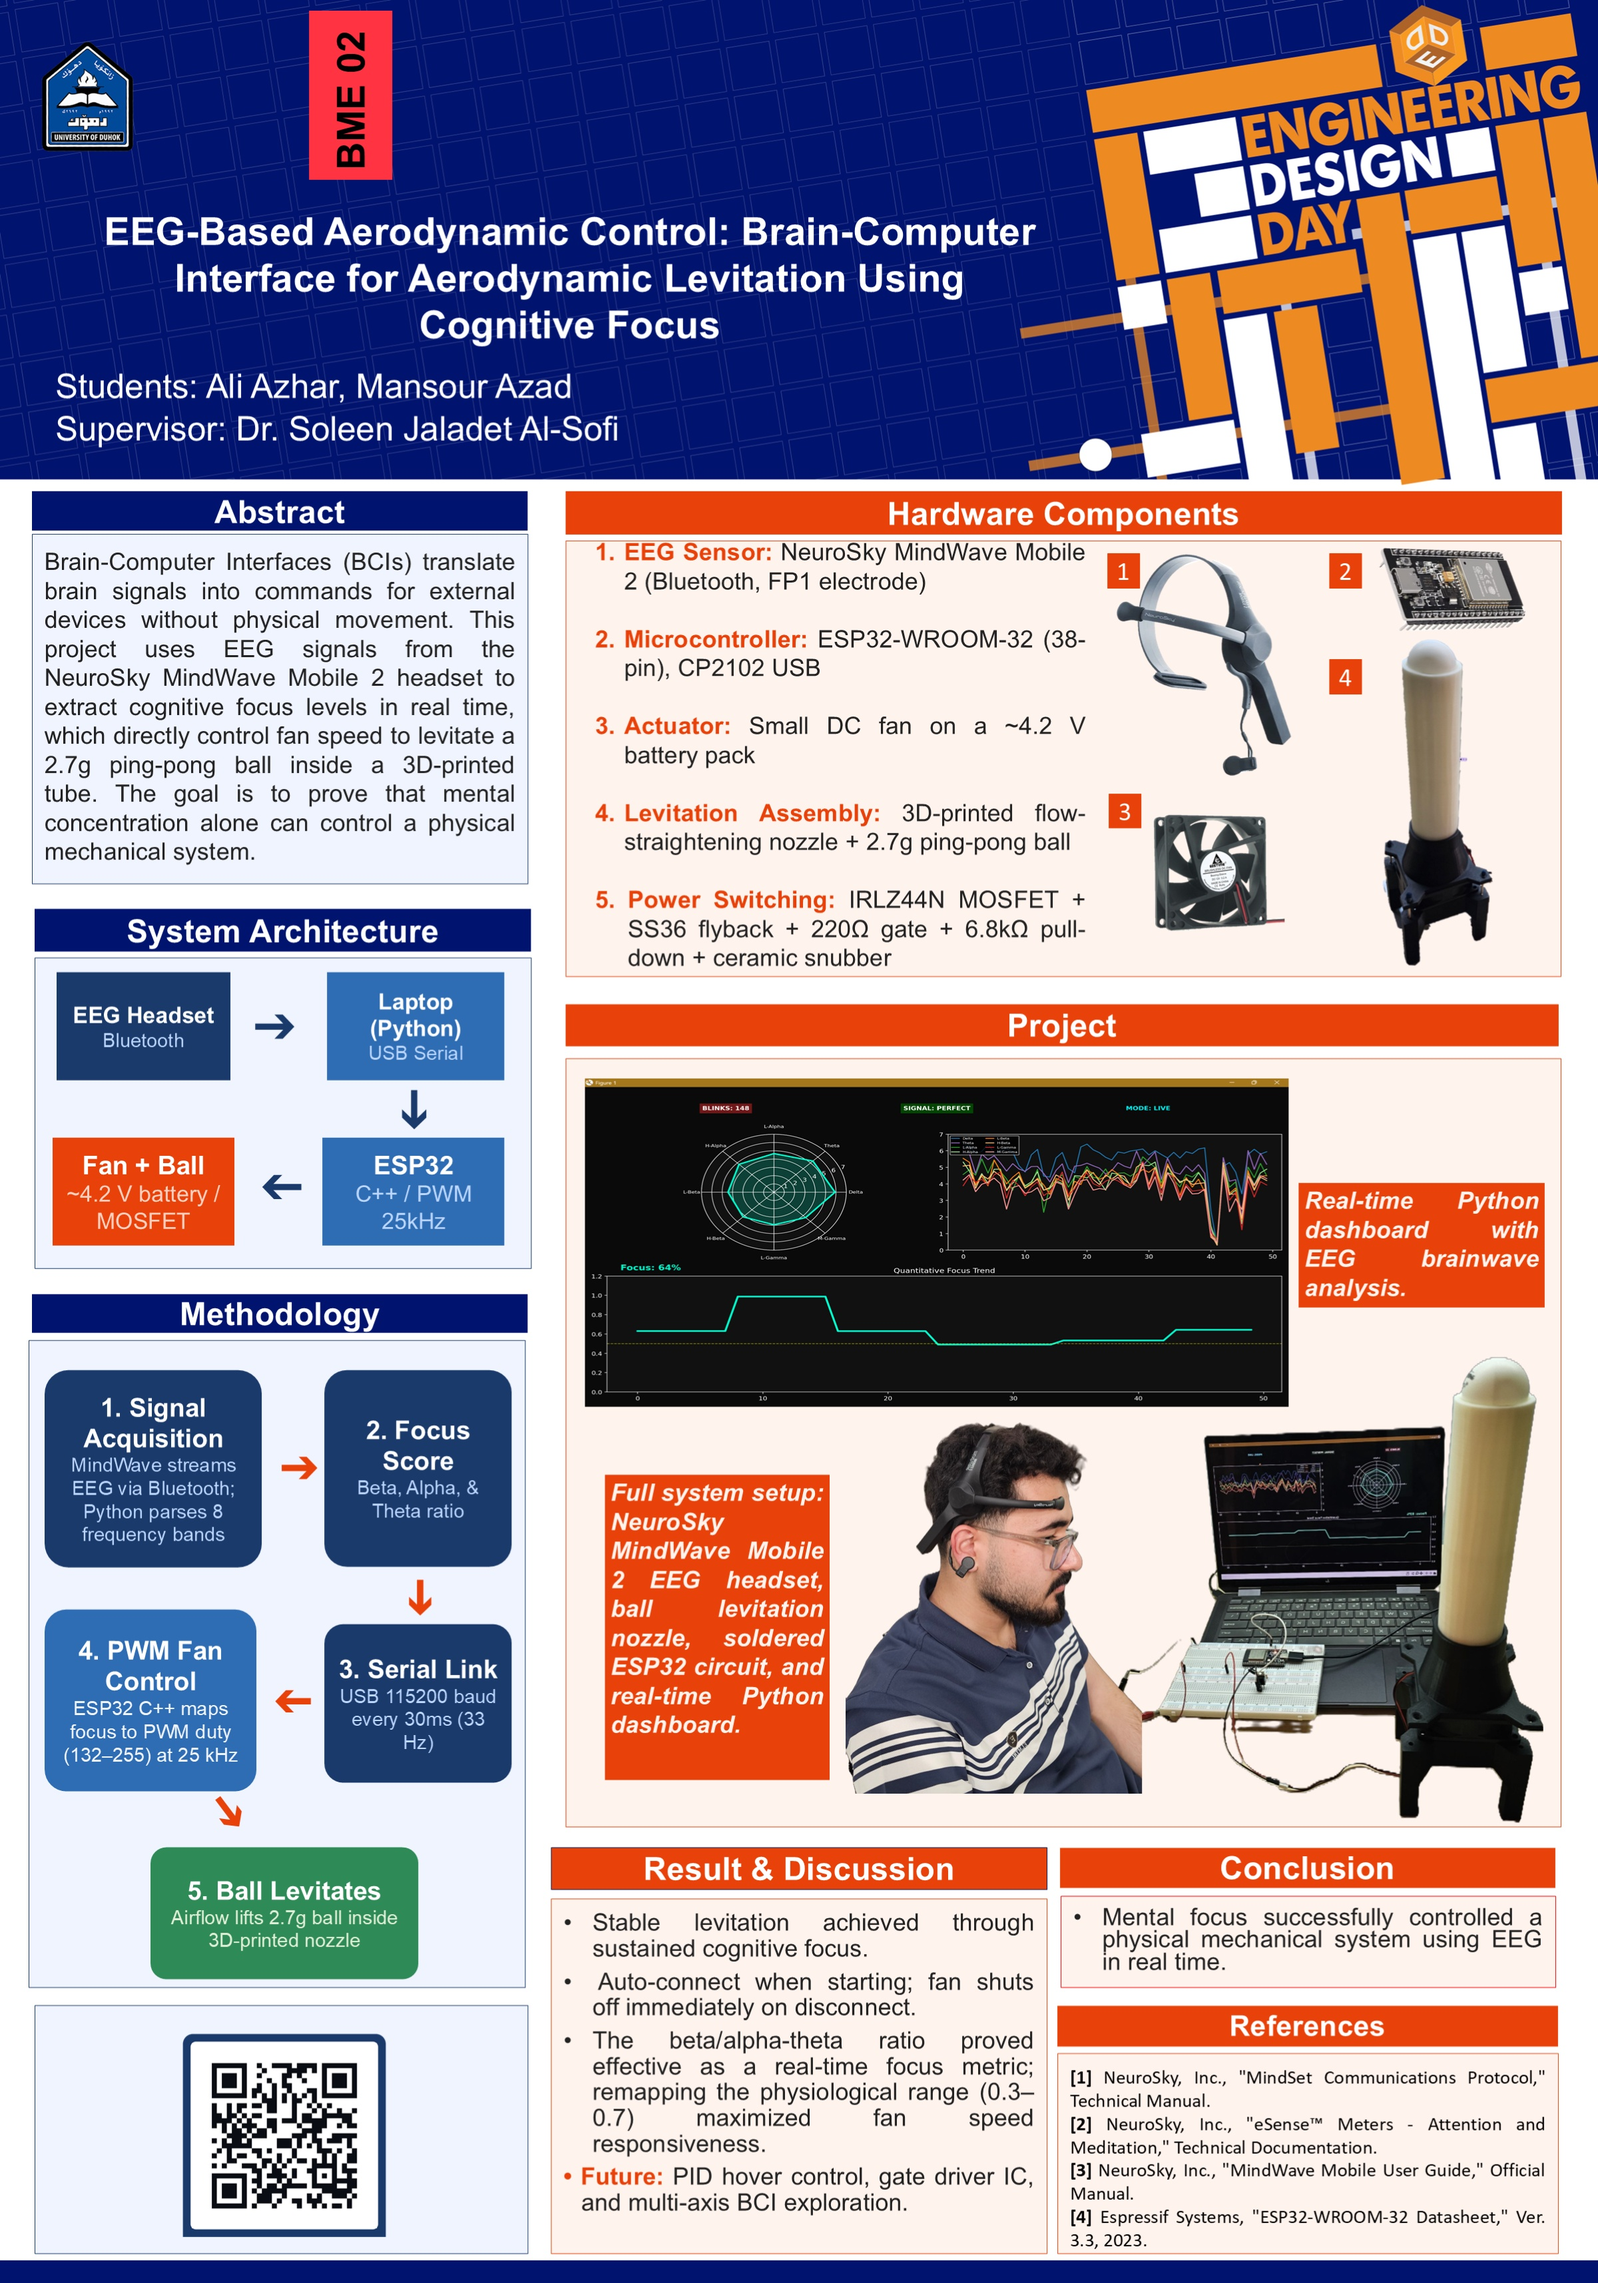
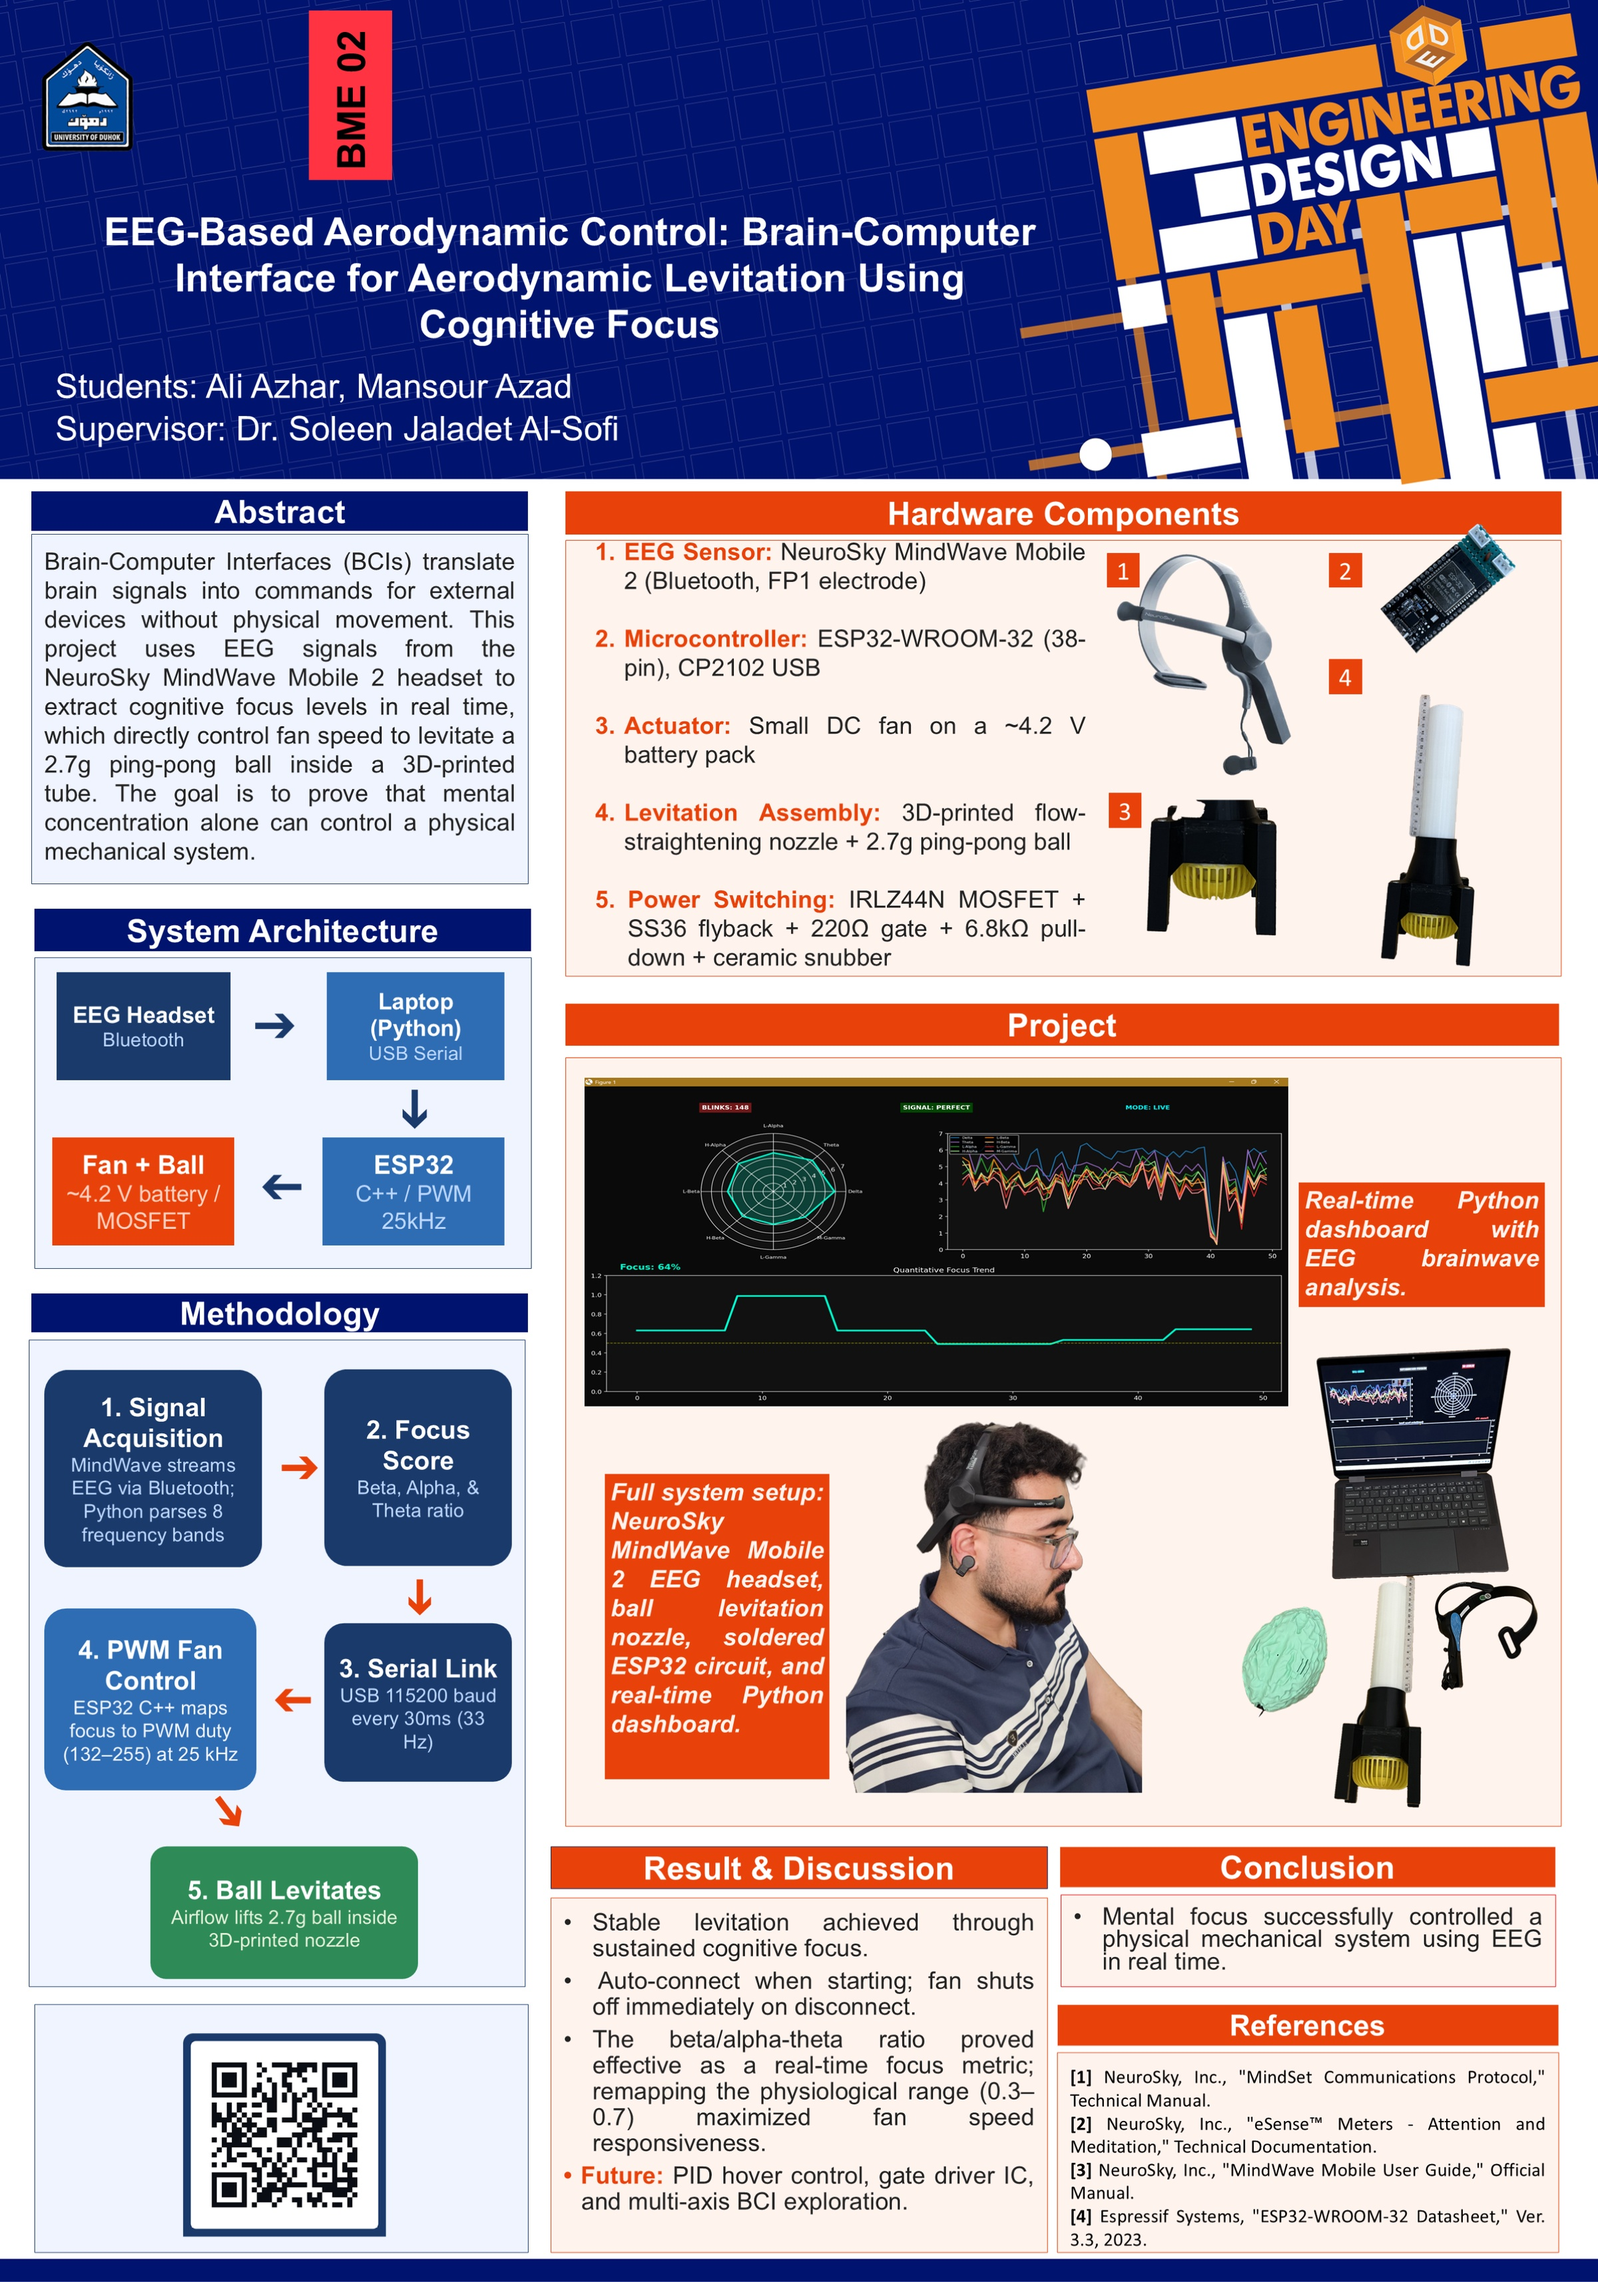
Use the revised poster on the site, and archive the original
Poster images re-exported from poster_v18.pptx after Ali repositioned the
full-system photo, and that photo no longer crops the top of the laptop --
the objects are cut out of the whole frame and padded rather than cropped.

The poster section now says plainly that this is NOT the poster shown at the
13th Engineering Design Day, and lists what changed since. The version that
was actually presented is linked separately as poster-original.jpg, set well
below the full-size link and styled quietly so it is not tapped by mistake.

diff --git a/index.html b/index.html
@@ -13,7 +13,7 @@
 <meta property="og:image" content="og-cover.jpg">
 <meta name="twitter:card" content="summary_large_image">
 
-<link rel="stylesheet" href="style.css?v=7">
+<link rel="stylesheet" href="style.css?v=8">
 </head>
 <body>
 
@@ -84,9 +84,11 @@
   <div class="wrap">
     <h2 id="poster-h" data-i18n="posterH">The poster</h2>
     <p class="sub" data-i18n="posterSub">
-      The whole project on one sheet, as presented at the 13th Engineering Design Day and
-      updated for the current build. It is an A0 poster, so open it full size to read it
-      properly &mdash; on a phone the version below is an overview.
+      The whole project on one sheet. <strong>This is not the poster that was shown at the
+      13th Engineering Design Day</strong> &mdash; it has been revised since, to match the
+      improvements made after the event: the soldered board in place of the breadboard, the
+      smaller fan on a battery, and the new nozzle and tube. It is a large-format poster, so
+      open it full size to read it properly; the version below is an overview.
     </p>
 
     <figure class="poster">
@@ -98,11 +100,19 @@
              data-i18n-alt="posterAlt">
       </picture>
       <figcaption>
-        <a href="poster-full.jpg" target="_blank" rel="noopener" data-i18n="posterFull">
+        <a class="poster-open" href="poster-full.jpg" target="_blank" rel="noopener" data-i18n="posterFull">
           Open the poster at full size &mdash; 2400 px
         </a>
       </figcaption>
     </figure>
+
+    <!-- kept well clear of the button above so nobody taps it by accident -->
+    <p class="poster-archive">
+      <span data-i18n="posterOldLead">Looking for the version actually presented at the event?</span>
+      <a href="poster-original.jpg" target="_blank" rel="noopener" data-i18n="posterOld">
+        The old poster, as shown at the 13th Engineering Design Day
+      </a>
+    </p>
   </div>
 </section>
 
@@ -634,7 +644,7 @@
   <button class="lb-nav lb-next" id="lbNext" aria-label="Next photo" data-i18n-aria="lbNext">&#8250;</button>
 </div>
 
-<script src="script.js?v=7" charset="utf-8" defer></script>
+<script src="script.js?v=8" charset="utf-8" defer></script>
 
 <!-- GoatCounter analytics -->
 <script data-goatcounter="https://eegbci.goatcounter.com/count"

diff --git a/script.js b/script.js
@@ -64,7 +64,9 @@ const AR = {
   honest: '<strong>بصراحة:</strong> لم يُنجَز أيٌّ من هذه الثلاثة بعد، والقطب الواحد لا يستطيع إلّا معرفة مدى تركيز الشخص — لا ما يفكّر فيه. أمّا المُنجَز والعامل فهو الطبقة التي سيقوم عليها كل ما سبق: من الدماغ إلى المحرّك، في أقل من عُشر الثانية، بمكوّنات متاحة للجميع.',
 
   posterH: 'ملصق المشروع',
-  posterSub: 'المشروع كلّه في صفحة واحدة، كما عُرض في يوم التصميم الهندسي الثالث عشر، ومحدَّثًا ليطابق الإصدار الحالي. الملصق بقياس A0، فافتحه بالحجم الكامل لقراءته على نحوٍ مريح — أمّا النسخة أدناه فهي للاطّلاع العام على الهاتف.',
+  posterSub: 'المشروع كلّه في صفحة واحدة. <strong>هذا ليس الملصق الذي عُرض في يوم التصميم الهندسي الثالث عشر</strong> — فقد نُقّح بعده ليطابق التحسينات التي أُجريت لاحقًا: اللوحة المُلحَمة بدل لوحة التجارب، والمروحة الأصغر التي تعمل على بطارية، والفوّهة والأنبوب الجديدان. والملصق بقياس كبير، فافتحه بالحجم الكامل لقراءته على نحوٍ مريح؛ أمّا النسخة أدناه فهي للاطّلاع العام.',
+  posterOldLead: 'تبحث عن النسخة التي عُرضت فعلًا في المعرض؟',
+  posterOld: 'الملصق القديم، كما عُرض في يوم التصميم الهندسي الثالث عشر',
   posterAlt: 'ملصق المشروع: العنوان، والملخّص، ومخطّط معمارية المنظومة، وقائمة المكوّنات المادية مع صورها، ومسار المنهجية بخمس خطوات، وصور للوحة البيانات وللمنظومة أثناء العمل، والنتائج والاستنتاج والمراجع.',
   posterFull: 'افتح الملصق بالحجم الكامل — 2400 بكسل',
 

diff --git a/style.css b/style.css
@@ -563,6 +563,21 @@ ul.plain li::before{
   border:1px solid var(--line); border-radius:10px;
 }
 .poster figcaption{ margin-top:.8rem; font-size:.9rem; }
+.poster-open{ font-weight:700; }
+
+/* the archive link sits deliberately far from the full-size link,
+   quieter and separated by a rule, so it is not tapped by mistake */
+.poster-archive{
+  margin:2.2rem 0 0; padding-top:1.1rem;
+  border-top:1px solid var(--line);
+  font-size:.85rem; color:var(--faint);
+  max-width:60ch;
+}
+.poster-archive a{
+  display:inline-block; margin-top:.35rem;
+  color:var(--muted); text-decoration-color:var(--line);
+}
+.poster-archive a:hover{ color:var(--brand-ink); }
 
 .schem{ margin:1.6rem 0 1.2rem; }
 .schem img{
